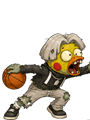
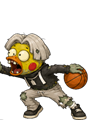
修改了伴舞僵尸显示的bug

diff --git a/animation/AnimationManager.cpp b/animation/AnimationManager.cpp
@@ -41,7 +41,7 @@ QString normalizeResourceKey(QString key)
     // 伴舞僵尸当前没有独立素材，复用普通僵尸素材，保证舞王召唤后有动画。
     if (key.contains(QStringLiteral("dancerzombie")) ||
         key.contains(QStringLiteral("dancer"))) {
-        return QStringLiteral("genzizombie");
+        return QStringLiteral("chicken");
     }
 
     if (key.contains(QStringLiteral("eater"))) {
@@ -107,7 +107,7 @@ QString zombieResourceKey(Zombie* zombie)
     }
 
     if (dynamic_cast<DancerZombie*>(zombie)) {
-        return QStringLiteral("genzizombie");
+        return QStringLiteral("chicken");
     }
 
     if (dynamic_cast<GenziZombie*>(zombie)) {
